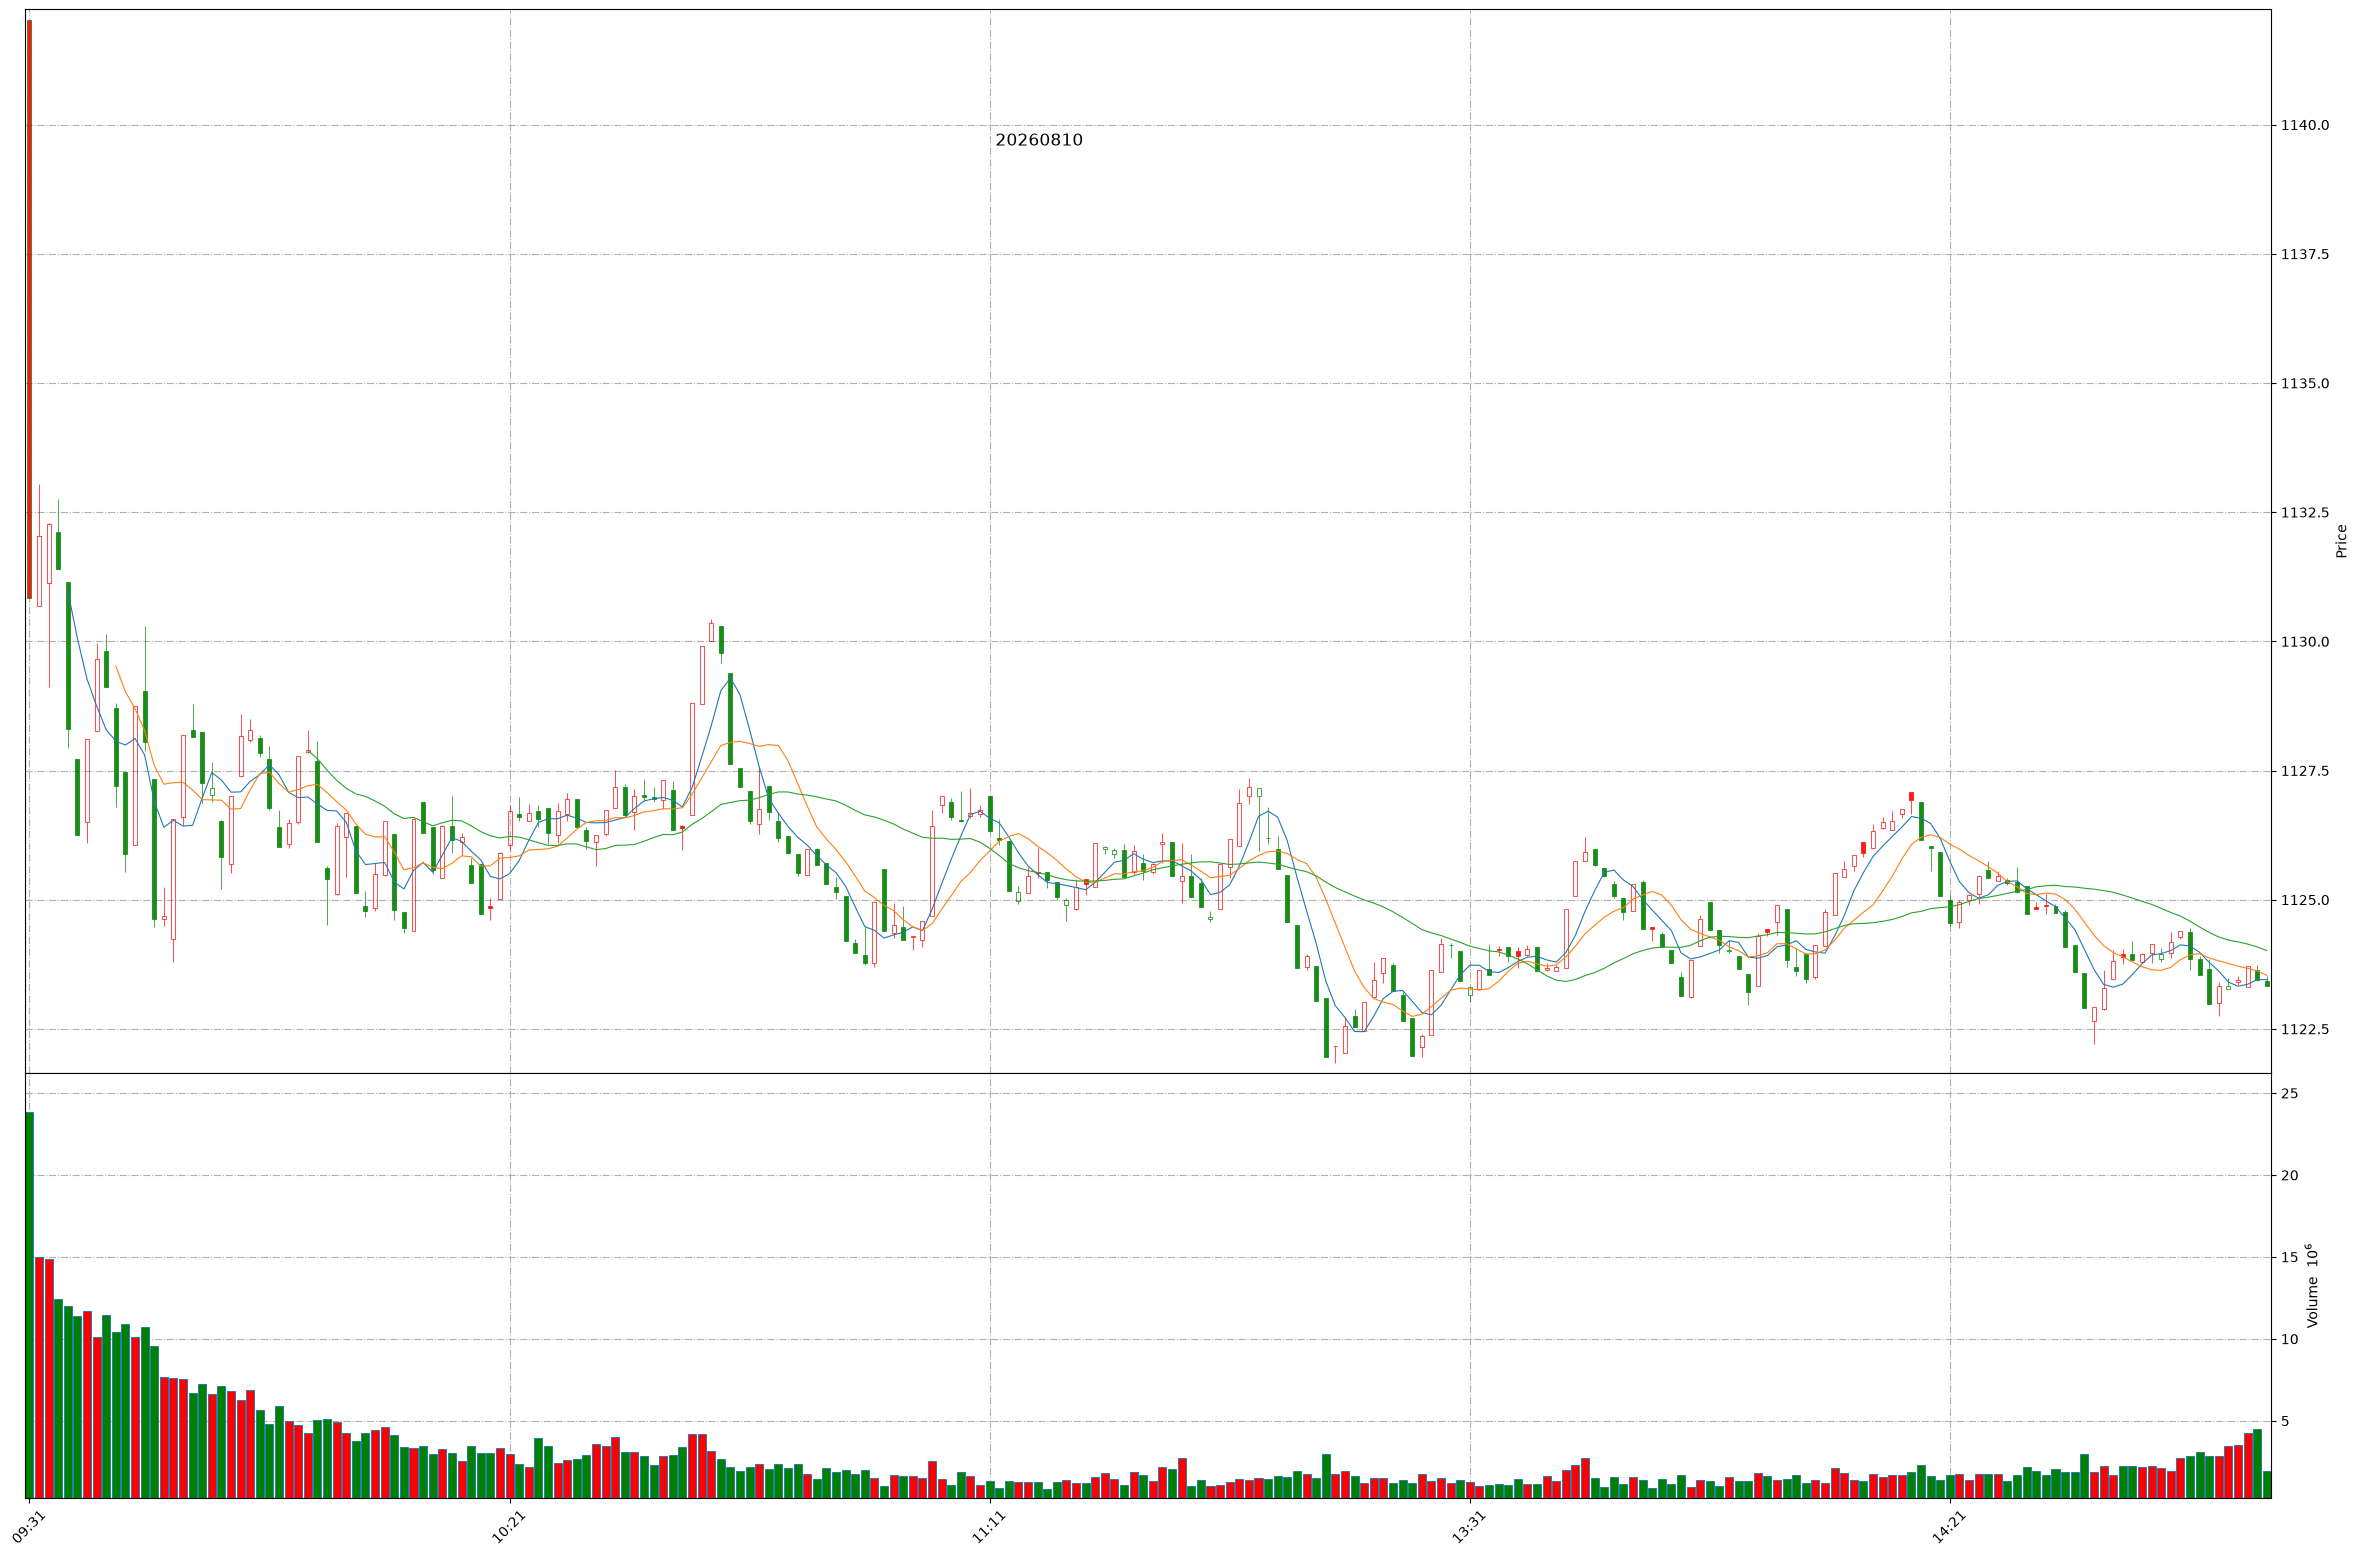
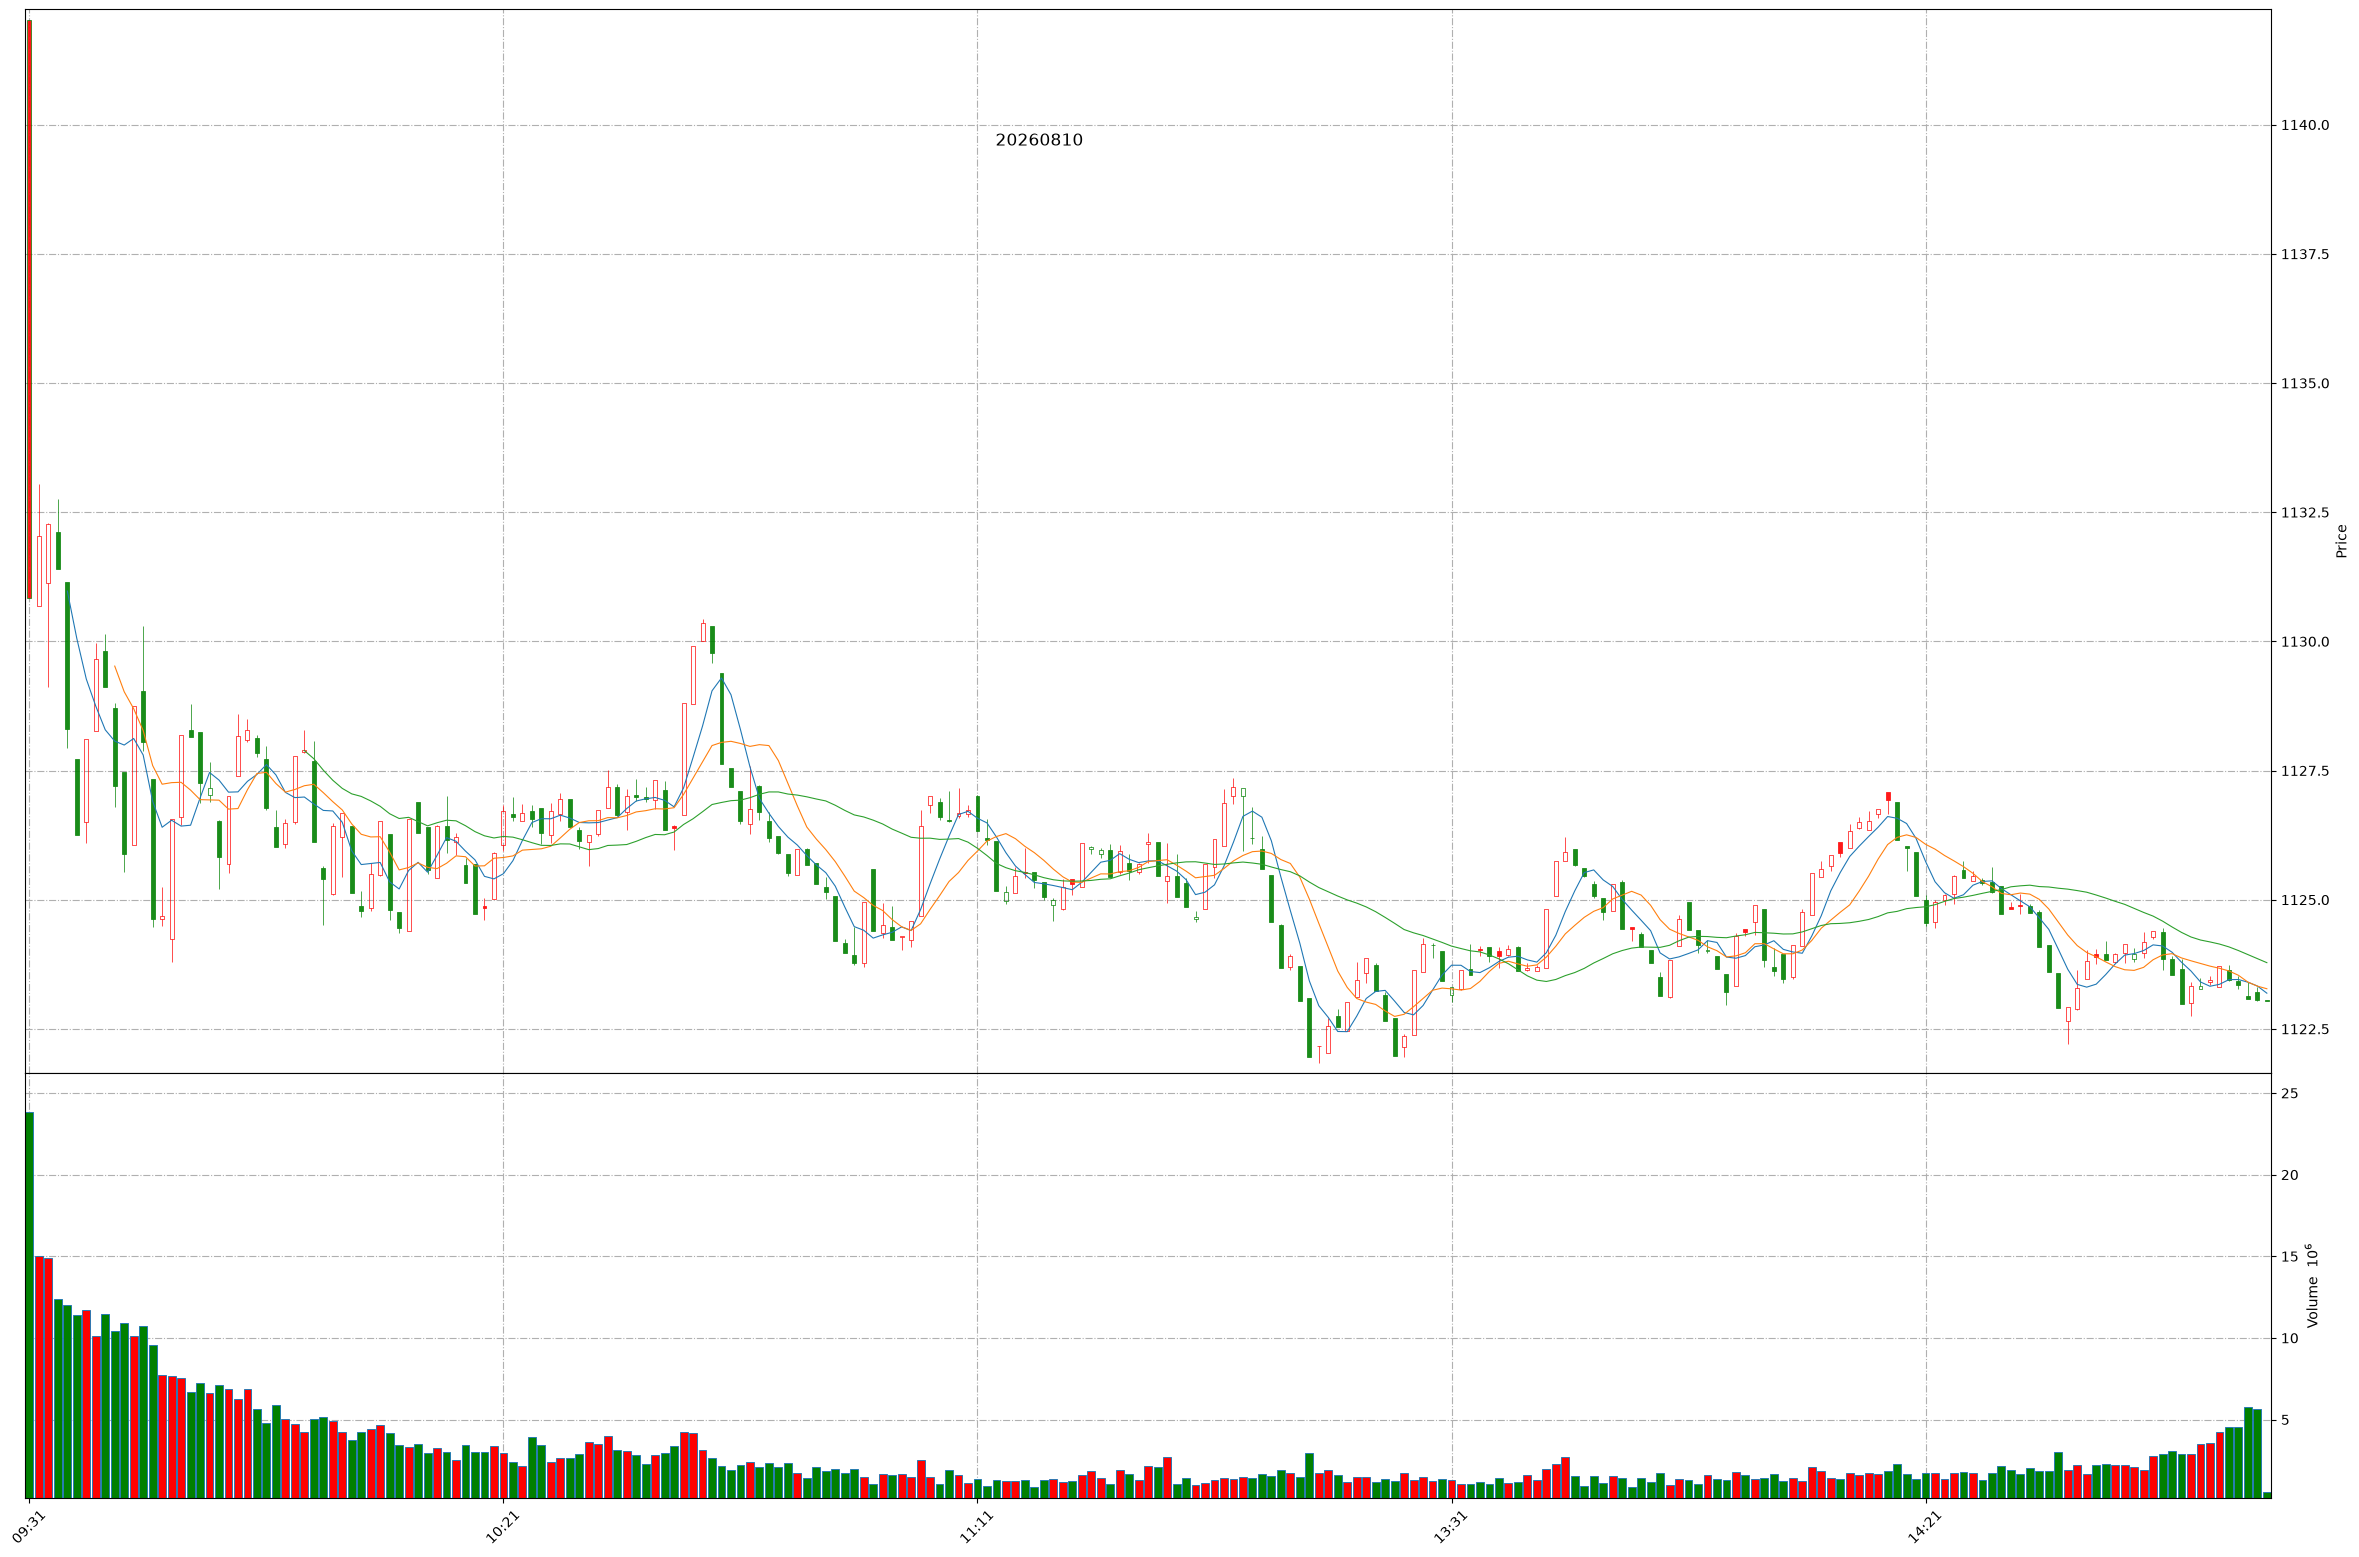
Github action update at 2026-08-10 14:56:22.

Changed region(s): [[0.0309, 0.4008, 0.9593, 0.6782], [0.0, 0.8324, 0.9593, 0.9865]]

diff --git a/README.md b/README.md
@@ -1,11 +1,11 @@
 
 # Daily-A-share-market-quotes 每日 A 股指数（5min 更新）- 20260810
 
-### 上证指数 20260810 14:53
+### 上证指数 20260810 14:56
 ![](./fig/2026/8/20260810-sh000001.png)
 
-### 深证成指 20260810 14:53
+### 深证成指 20260810 14:56
 ![](./fig/2026/8/20260810-sz399001.png)
 
-### 北证50 20260810 14:53
+### 北证50 20260810 14:56
 ![](./fig/2026/8/20260810-bj899050.png)
